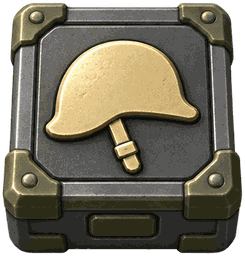
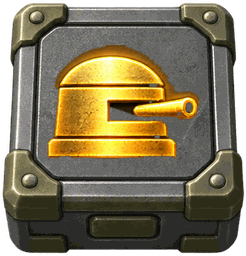
tank: 보병→벙커 컨셉 — 병사가 뛰어가 나무 틀→연기→완성 벙커 건설(공사 먼지), 파괴 시 잔해, 적은 완성 벙커, 벙커 블록·버튼 그림, 카드·문구 '벙커', 기름 게이지 빨강
Claude-Session: https://claude.ai/code/session_01WgvuRkGvWVXd8dKBPW52ru

diff --git a/tank/tank.js b/tank/tank.js
@@ -78,8 +78,8 @@
   IMG_LIST.forEach(function (n) { var i = new Image(); i.onload = function () { IMG[n] = i; }; i.src = 'assets/' + (/^(u|b|m|f|x)_/.test(n) ? '' : 'c_') + n + '.png?v=3'; });
   var BLK_IMG = { 1: 'b_plain', 2: 'b_fuel', 3: 'b_scout', 4: 'b_missile', 5: 'b_inf' };   // 정찰 = 정찰기, 보병 = 파란 병사
   // ---------- 새 그림(v2, 2026-10-11 GPT 시트) ----------
-  var V2 = {}, V2_PNG = ['b_bonus', 'b_fuel', 'b_inf', 'b_missile', 'b_plain', 'b_scout', 'ban_gold', 'ban_green', 'ban_red', 'bolt1', 'bolt2', 'bolt3', 'bolt_flash', 'btn_inf_off', 'btn_inf_on', 'btn_guide_on', 'btn_guide_off', 'btn_sound_on', 'btn_sound_off', 'btn_reroll_on', 'btn_reroll_off', 'btn_missile_off', 'btn_missile_on', 'btn_scout_off', 'btn_scout_on', 'cr_crack1', 'cr_crack2', 'cr_debris', 'cr_vignette', 'd_barrel', 'd_crater', 'd_pole', 'd_sandbag', 'd_trench1', 'd_trench2', 'd_trench3', 'd_wire1', 'd_wire2', 'e_gale', 'e_gale_dead', 'e_gale_hit', 'e_solar', 'e_solar_dead', 'e_solar_hit', 'e_surge', 'e_surge_dead', 'e_surge_hit', 'em_down', 'em_top', 'em_up', 'f_gale', 'f_gale_glow', 'f_solar', 'f_solar_glow', 'f_surge', 'f_surge_glow', 'fx_dust1', 'fx_dust2', 'fx_flash1', 'fx_flash2', 'fx_smoke', 'fx_smoke2', 'icon_1024', 'icon_180', 'icon_64', 'm_down', 'm_top', 'm_up', 'o_bad', 'o_dot', 'o_ok', 'o_sel', 'p_gale', 'p_gale_crash', 'p_solar', 'p_solar_crash', 'p_surge', 'p_surge_crash', 's_gale_dead', 's_gale_run1', 's_gale_run2', 's_gale_stand', 's_solar_dead', 's_solar_run1', 's_solar_run2', 's_solar_stand', 's_surge_dead', 's_surge_run1', 's_surge_run2', 's_surge_stand', 's_surge_front', 's_gale_front', 's_solar_front', 's_surge_frun1', 's_gale_frun1', 's_solar_frun1', 's_surge_frun2', 's_gale_frun2', 's_solar_frun2', 's_surge_fdead', 's_gale_fdead', 's_solar_fdead', 'sh_1', 'sh_2', 'sh_break', 'st_cloud', 'st_rain', 'st_splash', 'st_vortex', 't_gale', 't_gale_dead', 't_gale_hit', 't_solar', 't_solar_dead', 't_solar_hit', 't_surge', 't_surge_dead', 't_surge_hit', 'ui_card', 'ui_divider', 'ui_fuel', 'ui_hp_off', 'ui_hp_on', 'ui_jerry', 'ui_score', 'ui_vgauge', 'x_b1', 'x_b2', 'x_b3', 'x_b4', 'x_b5', 'x_b6', 'x_b7', 'x_b8', 'x_s1', 'x_s2', 'x_s3', 'x_s4', 'x_s5', 'x_s6', 'x_s7', 'x_s8'], V2_JPG = ['bg_enemy', 'bg_mine', 'keyart', 'res_gale_lose', 'res_gale_win', 'res_solar_lose', 'res_solar_win', 'res_surge_lose', 'res_surge_win', 'solar_rays', 'tile_g00', 'tile_g01', 'tile_g02', 'tile_g03', 'tile_g04', 'tile_g05', 'tile_g06', 'tile_g07', 'tile_g08', 'tile_g09', 'tile_g10', 'tile_g11', 'tile_g12', 'tile_g13', 'tile_g14', 'tile_g15', 'tile_r00', 'tile_r01', 'tile_r02', 'tile_r03', 'tile_r04', 'tile_r05', 'tile_r06', 'tile_r07', 'tile_r08', 'tile_r09', 'tile_r10', 'tile_r11', 'tile_r12', 'tile_r13', 'tile_r14', 'tile_r15', 'title'], v2n = 0;
-  V2_PNG.forEach(function (n) { var i = new Image(); i.onload = function () { V2[n] = i; v2n++; applySkin(); }; i.src = 'assets/v2/' + n + '.png?v=3'; });
+  var V2 = {}, V2_PNG = ['b_bonus', 'b_fuel', 'b_inf', 'b_missile', 'b_plain', 'b_scout', 'ban_gold', 'ban_green', 'ban_red', 'bolt1', 'bolt2', 'bolt3', 'bolt_flash', 'btn_inf_off', 'btn_inf_on', 'k_solar_m1', 'k_solar_m2', 'k_solar_m3', 'k_solar_m4', 'k_solar_e1', 'k_solar_e2', 'k_solar_e3', 'k_solar_e4', 'k_surge_m1', 'k_surge_m2', 'k_surge_m3', 'k_surge_m4', 'k_surge_e1', 'k_surge_e2', 'k_surge_e3', 'k_surge_e4', 'k_gale_m1', 'k_gale_m2', 'k_gale_m3', 'k_gale_m4', 'k_gale_e1', 'k_gale_e2', 'k_gale_e3', 'k_gale_e4', 'btn_guide_on', 'btn_guide_off', 'btn_sound_on', 'btn_sound_off', 'btn_reroll_on', 'btn_reroll_off', 'btn_missile_off', 'btn_missile_on', 'btn_scout_off', 'btn_scout_on', 'cr_crack1', 'cr_crack2', 'cr_debris', 'cr_vignette', 'd_barrel', 'd_crater', 'd_pole', 'd_sandbag', 'd_trench1', 'd_trench2', 'd_trench3', 'd_wire1', 'd_wire2', 'e_gale', 'e_gale_dead', 'e_gale_hit', 'e_solar', 'e_solar_dead', 'e_solar_hit', 'e_surge', 'e_surge_dead', 'e_surge_hit', 'em_down', 'em_top', 'em_up', 'f_gale', 'f_gale_glow', 'f_solar', 'f_solar_glow', 'f_surge', 'f_surge_glow', 'fx_dust1', 'fx_dust2', 'fx_flash1', 'fx_flash2', 'fx_smoke', 'fx_smoke2', 'icon_1024', 'icon_180', 'icon_64', 'm_down', 'm_top', 'm_up', 'o_bad', 'o_dot', 'o_ok', 'o_sel', 'p_gale', 'p_gale_crash', 'p_solar', 'p_solar_crash', 'p_surge', 'p_surge_crash', 's_gale_dead', 's_gale_run1', 's_gale_run2', 's_gale_stand', 's_solar_dead', 's_solar_run1', 's_solar_run2', 's_solar_stand', 's_surge_dead', 's_surge_run1', 's_surge_run2', 's_surge_stand', 's_surge_front', 's_gale_front', 's_solar_front', 's_surge_frun1', 's_gale_frun1', 's_solar_frun1', 's_surge_frun2', 's_gale_frun2', 's_solar_frun2', 's_surge_fdead', 's_gale_fdead', 's_solar_fdead', 'sh_1', 'sh_2', 'sh_break', 'st_cloud', 'st_rain', 'st_splash', 'st_vortex', 't_gale', 't_gale_dead', 't_gale_hit', 't_solar', 't_solar_dead', 't_solar_hit', 't_surge', 't_surge_dead', 't_surge_hit', 'ui_card', 'ui_divider', 'ui_fuel', 'ui_hp_off', 'ui_hp_on', 'ui_jerry', 'ui_score', 'ui_vgauge', 'x_b1', 'x_b2', 'x_b3', 'x_b4', 'x_b5', 'x_b6', 'x_b7', 'x_b8', 'x_s1', 'x_s2', 'x_s3', 'x_s4', 'x_s5', 'x_s6', 'x_s7', 'x_s8'], V2_JPG = ['bg_enemy', 'bg_mine', 'keyart', 'res_gale_lose', 'res_gale_win', 'res_solar_lose', 'res_solar_win', 'res_surge_lose', 'res_surge_win', 'solar_rays', 'tile_g00', 'tile_g01', 'tile_g02', 'tile_g03', 'tile_g04', 'tile_g05', 'tile_g06', 'tile_g07', 'tile_g08', 'tile_g09', 'tile_g10', 'tile_g11', 'tile_g12', 'tile_g13', 'tile_g14', 'tile_g15', 'tile_r00', 'tile_r01', 'tile_r02', 'tile_r03', 'tile_r04', 'tile_r05', 'tile_r06', 'tile_r07', 'tile_r08', 'tile_r09', 'tile_r10', 'tile_r11', 'tile_r12', 'tile_r13', 'tile_r14', 'tile_r15', 'title'], v2n = 0;
+  V2_PNG.forEach(function (n) { var i = new Image(); i.onload = function () { V2[n] = i; v2n++; applySkin(); }; i.src = 'assets/v2/' + n + '.png?v=5'; });
   V2_JPG.forEach(function (n) { var i = new Image(); i.onload = function () { V2[n] = i; }; i.src = 'assets/v2/' + n + '.jpg?v=1'; });
   function oppFacKey() { var o = (window.NET && NET.opp && NET.opp()) || {}; return FAC[o.fac] ? o.fac : (G && G.oppFacGuess) || 'gale'; }
   function applySkin() {                                   // 세력에 맞는 그림을 옛 이름(IMG.u_*)에 꽂아 넣는다 — 그리기 코드는 그대로
@@ -134,7 +134,7 @@
     var xm = COLS - 1 - x, d = 1;
     G.soldiers.forEach(function (e) { if (e.x === xm) d = Math.max(d, e.d + 1); });
     G.soldiers.push({ x: xm, d: d });
-    G.fx.push({ t: 'pop', text: '적 보병 출현', x: W / 2, y: 0, at: now(), big: true, col: '#ff8a7a' }); sfx('inf');
+    G.fx.push({ t: 'pop', text: '적 벙커 등장', x: W / 2, y: 0, at: now(), big: true, col: '#ff8a7a' }); sfx('inf');
   }
   function spawnFront() {                                 // 최전방 줄(adv-1)에 병사 1~2명, 열은 고정
     var n = 1 + rnd(2), xs = [];
@@ -330,7 +330,7 @@
       if (!vict.length) G.bolts.push({ x: rnd(COLS), py: rowC(top() + 1), at: t, mine: true });
       setTimeout(function () { if (G.over) return; vict = vict.filter(function (e) { if (e.sh) { e.sh = 0; G.fx.push({ t: 'shieldHit', px: BX(e.x) + S / 2, py: BYY(myRow(e.d)) + S * 0.6, sz: 0.7, at: now() }); return false; } return true; }); vict.forEach(function (e) { var i = G.mySol.indexOf(e); if (i >= 0) { G.fx.push({ t: 'dead', px: BX(e.x) + S / 2, py: rowC(myRow(e.d)), at: now(), life: 1500 }); G.mySol.splice(i, 1); } });
         while (G.mySol.length && !G.mySol.some(function (e) { return e.d === 1; })) G.mySol.forEach(function (e) { e.d--; });
-        if (vict.length) G.fx.push({ t: 'pop', text: '내 보병 ' + vict.length + '명 벼락 사망', x: W / 2, y: 0, at: now(), big: true, col: '#ff8a7a' });
+        if (vict.length) G.fx.push({ t: 'pop', text: '내 벙커 ' + vict.length + '개 벼락 파괴', x: W / 2, y: 0, at: now(), big: true, col: '#ff8a7a' });
         if (window.NET) NET.pub(true); }, 600);
     }
     else if (k === 'solar') { G.oppShield = SHIELD_HP; G.oppSolarUntil = t + SOLAR_MS; }
@@ -371,7 +371,7 @@
     G.inf--; G.sent++;
     var d = 1; G.mySol.forEach(function (e) { if (e.x === col) d = Math.max(d, e.d + 1); }); G.mySol.push({ x: col, d: d, runAt: now(), fromX: G.tank.x, fromY: G.tank.y, sh: now() < (G.solarUntil || 0) ? 1 : 0 });   // 탱크 해치에서 뛰어나가는 연출
     if (window.NET) NET.pub(true); sfx('send');
-    G.fx.push({ t: 'pop', text: '보병 배치', x: BX(col) + S / 2, y: rowC(myRow(d)) - S * 0.6, at: now(), big: false });
+    G.fx.push({ t: 'pop', text: '벙커 건설', x: BX(col) + S / 2, y: rowC(myRow(d)) - S * 0.6, at: now(), big: false });
   }
   function applyLine(L, nextTickIn) {                      // 대전: 방장이 정한 전선 위치 L(양수 = 내 땅이 그만큼 밀림, 음수 = 상대 땅을 그만큼 차지)
     var t = now(); if (nextTickIn != null && !G.sweep) G.nextAdv = t + nextTickIn;
@@ -470,7 +470,7 @@
       if (vict) {                                                     // 맨 앞 내 보병이 대신 맞는다 (발사 순간에 정해진 보병)
         G.mySol.splice(G.mySol.indexOf(vict), 1); G.fx.push({ t: 'dead', px: BX(sh.x) + S / 2, py: rowC(myRow(vict.d)), at: t, life: 1500 });
         G.fx.push({ t: 'boom', x: sh.x, y: myRow(vict.d), at: t, big: false }); sfx('boom', false);
-        G.fx.push({ t: 'pop', text: '보병 전사', x: BX(sh.x) + S / 2, y: rowC(myRow(vict.d)) - 20, at: t, big: false });
+        G.fx.push({ t: 'pop', text: '벙커 파괴', x: BX(sh.x) + S / 2, y: rowC(myRow(vict.d)) - 20, at: t, big: false });
         if (!G.mySol.some(function (e) { return e.d === 1; })) G.mySol.forEach(function (e) { e.d--; });   // 최전방이 비면 뒷줄이 앞으로
         if (window.NET) NET.pub(true);
         return false;
@@ -592,6 +592,12 @@
     if (SOL_NORM === 'height') { var refEb = V2['s_' + ef + '_stand'] || refE; return kMine * refM.height / refEb.height * 0.95; }   /* 키를 같게 */
     return kMine * headW(refM) / headW(refE) * 0.95;                /* 머리 폭을 같게, 적은 5% 작게 */
   }
+  function drawBunker(cx, footY, mine, f, stage, alpha) {           /* 벙커: stage 1 나무 틀 · 3 연기 · 2 완성 · 4 부서짐 (그림 열 번호) */
+    var im = V2['k_' + f + '_' + (mine ? 'm' : 'e') + stage]; if (!im) return false;
+    var w = S * 1.02, k = w / im.width, h = im.height * k; if (h > S * 1.45) { k = S * 1.45 / im.height; w = im.width * k; h = S * 1.45; }
+    ctx.save(); if (alpha != null) ctx.globalAlpha *= alpha; ctx.drawImage(im, cx - w / 2, footY - h, w, h); ctx.restore(); return true;
+  }
+  function buildStage(age) { return age < 1500 ? 1 : age < 2100 ? 3 : 2; }   /* 도착(0.9초) 뒤 나무 → 연기 → 완성 */
   function drawSoldier(px, py, s, mine, feetY) {
     var im = mine ? IMG.u_soldier_p : IMG.u_soldier_e;
     if (im) {
@@ -680,7 +686,7 @@
     var cj = G.clash && t < G.clash.until ? 1 : 0;                                   // 교전 중엔 병사들이 떨림
     var keepSE = IMG.u_soldier_e, keepSP = IMG.u_soldier_p, rf = Math.floor(t / 110) % 2, oe = oppFacKey(), mf2 = G.fac || 'solar';
     if (cj) { if (V2['s_' + oe + '_frun2']) IMG.u_soldier_e = V2['s_' + oe + (rf ? '_frun2' : '_frun1')]; if (V2['s_' + mf2 + '_run2']) IMG.u_soldier_p = V2['s_' + mf2 + (rf ? '_run2' : '_run1')]; }   /* 교전: 양쪽 달리기 2프레임 */
-    if (scouting || G.vs) G.soldiers.slice().sort(function (a, b) { return b.d - a.d; }).forEach(function (e, i) { if (G.vs && !scouting && e.d !== 1) return;   /* 최전방은 늘 보이고, 뒷줄은 정찰할 때만 */ var ss = G.vs ? S * 0.8 : FS * 1.05; ctx.save(); ctx.globalAlpha = (!G.vs || scouting || cj) ? 1 : 0.45;   /* 안개 속 최전방 적: 흐릿 */ /* 대전: 최전방 보병만 항상 보이고 뒷줄·탱크는 정찰 중에만. 크기는 내 보병과 같게, 흔들림 없음 */ var ejx = cj * (Math.random() - 0.5) * 6; drawSoldier(BX(e.x) + (S - ss) / 2 + ejx, slotY(e.d) - ss / 2, ss, false, slotY(e.d) + FS * 0.45); if (t < (G.oppSolarUntil || 0)) drawSolDome(BX(e.x) + S / 2 + ejx, slotY(e.d) + FS * 0.45, t); ctx.restore(); });
+    if (scouting || G.vs) G.soldiers.slice().sort(function (a, b) { return b.d - a.d; }).forEach(function (e, i) { if (G.vs && !scouting && e.d !== 1) return;   /* 최전방은 늘 보이고, 뒷줄은 정찰할 때만 */ var ss = G.vs ? S * 0.8 : FS * 1.05; ctx.save(); ctx.globalAlpha = (!G.vs || scouting || cj) ? 1 : 0.45;   /* 안개 속 최전방 적: 흐릿 */ /* 대전: 최전방 보병만 항상 보이고 뒷줄·탱크는 정찰 중에만. 크기는 내 보병과 같게, 흔들림 없음 */ var ejx = cj * (Math.random() - 0.5) * 6, efy = slotY(e.d) + FS * 0.45; if (!drawBunker(BX(e.x) + S / 2 + ejx, efy, false, oppFacKey(), 2)) drawSoldier(BX(e.x) + (S - ss) / 2 + ejx, slotY(e.d) - ss / 2, ss, false, efy); if (t < (G.oppSolarUntil || 0)) drawSolDome(BX(e.x) + S / 2 + ejx, slotY(e.d) + FS * 0.45, t); ctx.restore(); });
     if (G.vs) {
       G.mySol.slice().sort(function (a, b) { return a.d - b.d; }).forEach(function (e, i) { var ss = S * 0.8, ry = myRow(e.d); if (ry >= ROWS) return;   /* 화면 위(최전방)부터 그려서 아래(뒷줄)가 위에 겹침 */
         var dx = BX(e.x) + (S - ss) / 2, dy = rowC(ry) - ss / 2, bob = 0;
@@ -690,7 +696,8 @@
           else { var q = Math.min(1, (rp - 220) / 680); q = 1 - (1 - q) * (1 - q); dx = sx + (dx - sx) * q; dy = sy + (dy - sy) * q; bob = -Math.abs(Math.sin(rp / 45)) * 7;
             ctx.fillStyle = 'rgba(120,90,50,.35)'; for (var di = 0; di < 3; di++) { ctx.beginPath(); ctx.arc(dx + ss / 2 - di * 8 + (Math.random() - 0.5) * 4, dy + ss - 2 + di * 2, 3 + di, 0, 7); ctx.fill(); } }   // 흙먼지
         } else dx += cj * (Math.random() - 0.5) * 6;
-        var keepP = IMG.u_soldier_p; if (e.runAt && t - e.runAt < 900 && V2['s_' + mf2 + '_run1']) IMG.u_soldier_p = V2['s_' + mf2 + (rf ? '_run2' : '_run1')]; var runN = e.runAt && t - e.runAt < 900, fyM = runN ? dy + bob + ss : BYY(ry) + S - 4; drawSoldier(dx, dy + bob, ss, true, fyM); IMG.u_soldier_p = keepP; if (e.sh) drawSolDome(dx + ss / 2, fyM, t); });
+        var keepP = IMG.u_soldier_p; if (e.runAt && t - e.runAt < 900 && V2['s_' + mf2 + '_run1']) IMG.u_soldier_p = V2['s_' + mf2 + (rf ? '_run2' : '_run1')]; var runN = e.runAt && t - e.runAt < 900, fyM = runN ? dy + bob + ss : BYY(ry) + S - 4; var bage = e.runAt ? t - e.runAt : 9999; if (runN || !drawBunker(BX(e.x) + S / 2 + (dx - (BX(e.x) + (S - ss) / 2)), fyM, true, mf2, buildStage(bage))) drawSoldier(dx, dy + bob, ss, true, fyM);
+        if (!runN && bage < 2100) { var bp = (bage - 900) / 1200; for (var bd = 0; bd < 4; bd++) { ctx.fillStyle = 'rgba(190,160,110,' + (0.5 * (1 - bp)) + ')'; ctx.beginPath(); ctx.arc(BX(e.x) + S / 2 + Math.cos(bd * 1.7) * S * 0.45 * (0.5 + bp), fyM - 6 - bp * 10, 4 + bp * 8, 0, 7); ctx.fill(); } if (!e.bsnd) { e.bsnd = 1; sfx('place'); } }   /* 공사 먼지 */ IMG.u_soldier_p = keepP; if (e.sh) drawSolDome(dx + ss / 2, fyM, t); });
       IMG.u_soldier_e = keepSE; IMG.u_soldier_p = keepSP;
       var liveSee = G.oppTank && (scouting || (G.reveal && t < G.reveal.until));
       if (!liveSee && G.lastSeen) {                                            // 마지막으로 확인된 상대 탱크 자리(잔상) — 다음 정찰/발사까지 남는다
@@ -840,7 +847,7 @@
         ctx.restore();
       }
       else if (f.t === 'deny') { var dp2 = a / 600, jx = Math.sin(a / 22) * 5 * (1 - dp2), dx2 = BX(f.x) + jx, dy2 = BYY(f.y); ctx.save(); ctx.globalAlpha = 1 - dp2; ctx.fillStyle = 'rgba(255,40,30,.35)'; ctx.fillRect(dx2 + 3, dy2 + 3, S - 6, S - 6); ctx.strokeStyle = '#ff4a3a'; ctx.lineWidth = 3; ctx.strokeRect(dx2 + 3, dy2 + 3, S - 6, S - 6); ctx.beginPath(); ctx.moveTo(dx2 + S * 0.3, dy2 + S * 0.3); ctx.lineTo(dx2 + S * 0.7, dy2 + S * 0.7); ctx.moveTo(dx2 + S * 0.7, dy2 + S * 0.3); ctx.lineTo(dx2 + S * 0.3, dy2 + S * 0.7); ctx.stroke(); ctx.restore(); }
-      else if (f.t === 'dead') { var dimg2 = f.enemy ? V2['s_' + oppFacKey() + '_fdead'] : V2['s_' + (G.fac || 'solar') + '_dead']; if (dimg2) { var dk = solK(!f.enemy, S * 0.8), ddw = dimg2.width * dk, ddh = dimg2.height * dk; ctx.save(); ctx.globalAlpha = Math.max(0, 1 - Math.max(0, a - 900) / 600); ctx.drawImage(dimg2, f.px - ddw / 2, f.py - ddh / 2, ddw, ddh); ctx.restore(); } }
+      else if (f.t === 'dead') { var kb = V2['k_' + (f.enemy ? oppFacKey() : (G.fac || 'solar')) + '_' + (f.enemy ? 'e' : 'm') + '4']; if (kb) { drawBunker(f.px, f.py + (f.enemy ? FS * 0.45 : S / 2 - 4), !f.enemy, f.enemy ? oppFacKey() : (G.fac || 'solar'), 4, Math.max(0, 1 - Math.max(0, a - 900) / 600)); } var dimg2 = null; if (dimg2) { var dk = solK(!f.enemy, S * 0.8), ddw = dimg2.width * dk, ddh = dimg2.height * dk; ctx.save(); ctx.globalAlpha = Math.max(0, 1 - Math.max(0, a - 900) / 600); ctx.drawImage(dimg2, f.px - ddw / 2, f.py - ddh / 2, ddw, ddh); ctx.restore(); } }
       else if (f.t === 'debris') { var dp = Math.min(1, a / (f.life || 900)); if (V2.cr_debris) fitImg(V2.cr_debris, f.px, f.py - dp * 30, S * (1 + dp * 1.4), S * (1 + dp * 1.4), 1 - dp, f.rot + dp * 1.5); }
       else if (f.t === 'pop') { ctx.save(); ctx.globalAlpha = 1 - Math.max(0, (a - 550) / 450); ctx.font = '700 ' + (f.size || 15) + 'px Do Hyeon, system-ui'; ctx.textAlign = 'center'; ctx.textBaseline = 'middle'; ctx.lineWidth = 3; ctx.strokeStyle = 'rgba(0,0,0,.85)'; var fy = f.y - a / 40; ctx.strokeText(f.text, f.x, fy); ctx.fillStyle = f.col || '#fff'; ctx.fillText(f.text, f.x, fy); ctx.restore(); }
     });
@@ -1080,21 +1087,21 @@
     btn(BTN.scout, '🔭', G.scout, '정찰', G.scout > 0);
     var rl = Math.max(0, G.missileReady - t); btn(BTN.missile, '🚀', G.missile, rl > 0 ? (rl / 1000).toFixed(1) + 's' : '미사일', G.missile > 0 && rl <= 0);
     if (rl > 0) { var mb = BTN.missile, rp = 1 - rl / 3000; ctx.save(); rr(mb.x, mb.y, mb.w, mb.h, 10); ctx.clip(); ctx.fillStyle = 'rgba(255,200,80,.45)'; ctx.fillRect(mb.x, mb.y, mb.w * rp, mb.h); ctx.restore(); }
-    if (G.vs) btn(BTN.inf, '🪖', G.inf, '보병 투입', G.inf > 0);
+    if (G.vs) btn(BTN.inf, '🪖', G.inf, '벙커 건설', G.inf > 0);
     // 연료
     var hy = HY, cy = hy + HUD / 2;
     var fw = Math.min(W * 0.58, 300), fh = Math.min(HUD - 8, 44), fx0 = 6, fy0 = cy - fh / 2;          /* 연료: 큰 숫자 + 굵은 15칸 게이지 (금테) */
     var lab = String(G.fuel), lf = Math.round(fh * 0.72), jw = fh * 1.05; ctx.font = '800 ' + lf + 'px Black Han Sans, Do Hyeon, system-ui'; ctx.textAlign = 'left'; ctx.textBaseline = 'middle';
     var lw = jw + 6 + ctx.measureText(lab).width + 10, ix = fx0 + lw, iw2 = fw - lw, iy = fy0, ih2 = fh, segW = iw2 / FUEL_MAX;
     if (V2.ui_jerry) fitImg(V2.ui_jerry, fx0 + jw / 2, cy, jw, jw, 1, 0); ctx.lineWidth = 4; ctx.strokeStyle = '#000'; ctx.strokeText(lab, fx0 + jw + 6, cy); ctx.fillStyle = G.fuel <= 3 ? '#ff8a7a' : '#ffe28a'; ctx.fillText(lab, fx0 + jw + 6, cy);
-    ctx.fillStyle = '#0a0b08'; rr(ix - 3, iy - 3, iw2 + 6, ih2 + 6, 6); ctx.fill(); ctx.strokeStyle = '#c9a34a'; ctx.lineWidth = 2; rr(ix - 3, iy - 3, iw2 + 6, ih2 + 6, 6); ctx.stroke();
-    for (var i = 0; i < FUEL_MAX; i++) { var onF = i < G.fuel; var fg = ctx.createLinearGradient(0, iy, 0, iy + ih2); fg.addColorStop(0, onF ? (G.fuel <= 3 ? '#ff8a6a' : '#ffd86a') : '#2a2d24'); fg.addColorStop(1, onF ? (G.fuel <= 3 ? '#c0301a' : '#d9821a') : '#15170f'); ctx.fillStyle = fg; rr(ix + i * segW + 1.5, iy + 2, segW - 3, ih2 - 4, 3); ctx.fill(); }
+    ctx.fillStyle = '#0a0b08'; rr(ix - 3, iy - 3, iw2 + 6, ih2 + 6, 6); ctx.fill(); ctx.strokeStyle = '#d9483a'; ctx.lineWidth = 2; rr(ix - 3, iy - 3, iw2 + 6, ih2 + 6, 6); ctx.stroke();
+    for (var i = 0; i < FUEL_MAX; i++) { var onF = i < G.fuel; var fg = ctx.createLinearGradient(0, iy, 0, iy + ih2); fg.addColorStop(0, onF ? (G.fuel <= 3 ? '#ff9a8a' : '#ff5a4a') : '#2a2d24'); fg.addColorStop(1, onF ? (G.fuel <= 3 ? '#801010' : '#b01810') : '#15170f'); ctx.fillStyle = fg; rr(ix + i * segW + 1.5, iy + 2, segW - 3, ih2 - 4, 3); ctx.fill(); }
     // 점수 / 상대
     ctx.textAlign = 'right';
     if (G.vs) {
       var o = (window.NET && NET.opp()) || {};
       var mf = G.mySol.filter(function (e) { return e.d === 1; }).length, ef = G.soldiers.filter(function (e) { return e.d === 1; }).length;
-      ctx.textAlign = 'left'; ctx.textBaseline = 'middle'; ctx.font = '600 14px Do Hyeon, system-ui'; ctx.fillStyle = '#cfd6bf'; ctx.fillText('최전방 보병', fx0 + fw + 10, cy);
+      ctx.textAlign = 'left'; ctx.textBaseline = 'middle'; ctx.font = '600 14px Do Hyeon, system-ui'; ctx.fillStyle = '#cfd6bf'; ctx.fillText('최전방 벙커', fx0 + fw + 10, cy);
       ctx.font = '800 20px Black Han Sans, Do Hyeon, system-ui'; var seeE = true; ctx.fillStyle = !seeE ? '#fff' : mf > ef ? '#9be37a' : mf < ef ? '#ff8a7a' : '#fff'; ctx.fillText(mf + ' : ' + (seeE ? ef : '?'), fx0 + fw + 10 + ctx.measureText('최전방 보병 ').width + 4, cy);
     }
     else { /* 점수는 drawScore */ ctx.font = '800 20px Black Han Sans, Do Hyeon, system-ui'; ctx.font = '600 11px Black Han Sans, Do Hyeon, system-ui'; ctx.fillStyle = '#cfd6bf'; ctx.fillText('BEST ' + best(), W - 10 - ctx.measureText(String(G.score)).width * 2.4 - 12, cy); }

diff --git a/tank/index.html b/tank/index.html
@@ -184,7 +184,7 @@
   <div class="cards">
     <div class="ncard c1"><img src="assets/v2/b_missile.png" alt=""><b>1</b><div>블록 줄을 지워<br>아이템을 모아라!</div></div>
     <div class="ncard c2"><img src="assets/v2/p_solar.png" alt=""><b>2</b><div>정찰기를 띄워<br>적 탱크를 부숴라!</div></div>
-    <div class="ncard c3"><img src="assets/v2/s_solar_run1.png" alt=""><b>3</b><div>보병을 모아<br>전선을 밀어라!</div></div>
+    <div class="ncard c3"><img src="assets/v2/k_solar_m2.png" alt=""><b>3</b><div>벙커를 지어<br>전선을 밀어라!</div></div>
   </div>
   <div class="row"><button id="readyBtn" class="btn" disabled>준비!</button><button id="leaveBtn" class="btn sub">나가기</button></div>
   <p id="roomMsg" class="hint"></p>
@@ -195,7 +195,7 @@
   <div class="cards">
     <div class="ncard c1"><img src="assets/v2/b_missile.png" alt=""><b>1</b><div>블록 줄을 지워<br>아이템을 모아라!</div></div>
     <div class="ncard c2"><img src="assets/v2/p_solar.png" alt=""><b>2</b><div>정찰기를 띄워<br>적 탱크를 부숴라!</div></div>
-    <div class="ncard c3"><img src="assets/v2/s_solar_run1.png" alt=""><b>3</b><div>보병을 모아<br>전선을 밀어라!</div></div>
+    <div class="ncard c3"><img src="assets/v2/k_solar_m2.png" alt=""><b>3</b><div>벙커를 지어<br>전선을 밀어라!</div></div>
   </div>
 </div>
 
@@ -218,7 +218,7 @@
 })();
 </script>
 <script src="sfx.js?v=37"></script>
-<script src="tank.js?v=93"></script>
+<script src="tank.js?v=95"></script>
 <script src="net.js?v=43"></script>
 <script src="bot.js?v=44"></script>
 <script src="demo.js?v=4"></script>
@@ -229,7 +229,7 @@
 </script>
 <script>
 window.TANK_TIPS = { 3: '정찰기를 띄워\n적 탱크를 찾아 부숴라!', 2: '블록 줄을 지워\n아이템을 모아라!', 1: '최전방에 보병을 모아\n30초마다 전선을 밀어라!' };
-window.tankCards = function () { var f = localStorage.getItem('tank_fac') || 'solar'; document.querySelectorAll('.ncard.c2 img').forEach(function (i) { i.src = 'assets/v2/p_' + f + '.png'; }); document.querySelectorAll('.ncard.c3 img').forEach(function (i) { i.src = 'assets/v2/s_' + f + '_run1.png'; }); };
+window.tankCards = function () { var f = localStorage.getItem('tank_fac') || 'solar'; document.querySelectorAll('.ncard.c2 img').forEach(function (i) { i.src = 'assets/v2/p_' + f + '.png'; }); document.querySelectorAll('.ncard.c3 img').forEach(function (i) { i.src = 'assets/v2/k_' + f + '_m2.png'; }); };
 window.tankCountStep = function (n) {   /* n: 0=아무것도, 1~3 = 그 번호까지 카드 표시 */
   document.getElementById('countNum').textContent = n ? n : '';
   document.querySelectorAll('#count .ncard').forEach(function (c, k) { c.classList.toggle('show', k < n); });
